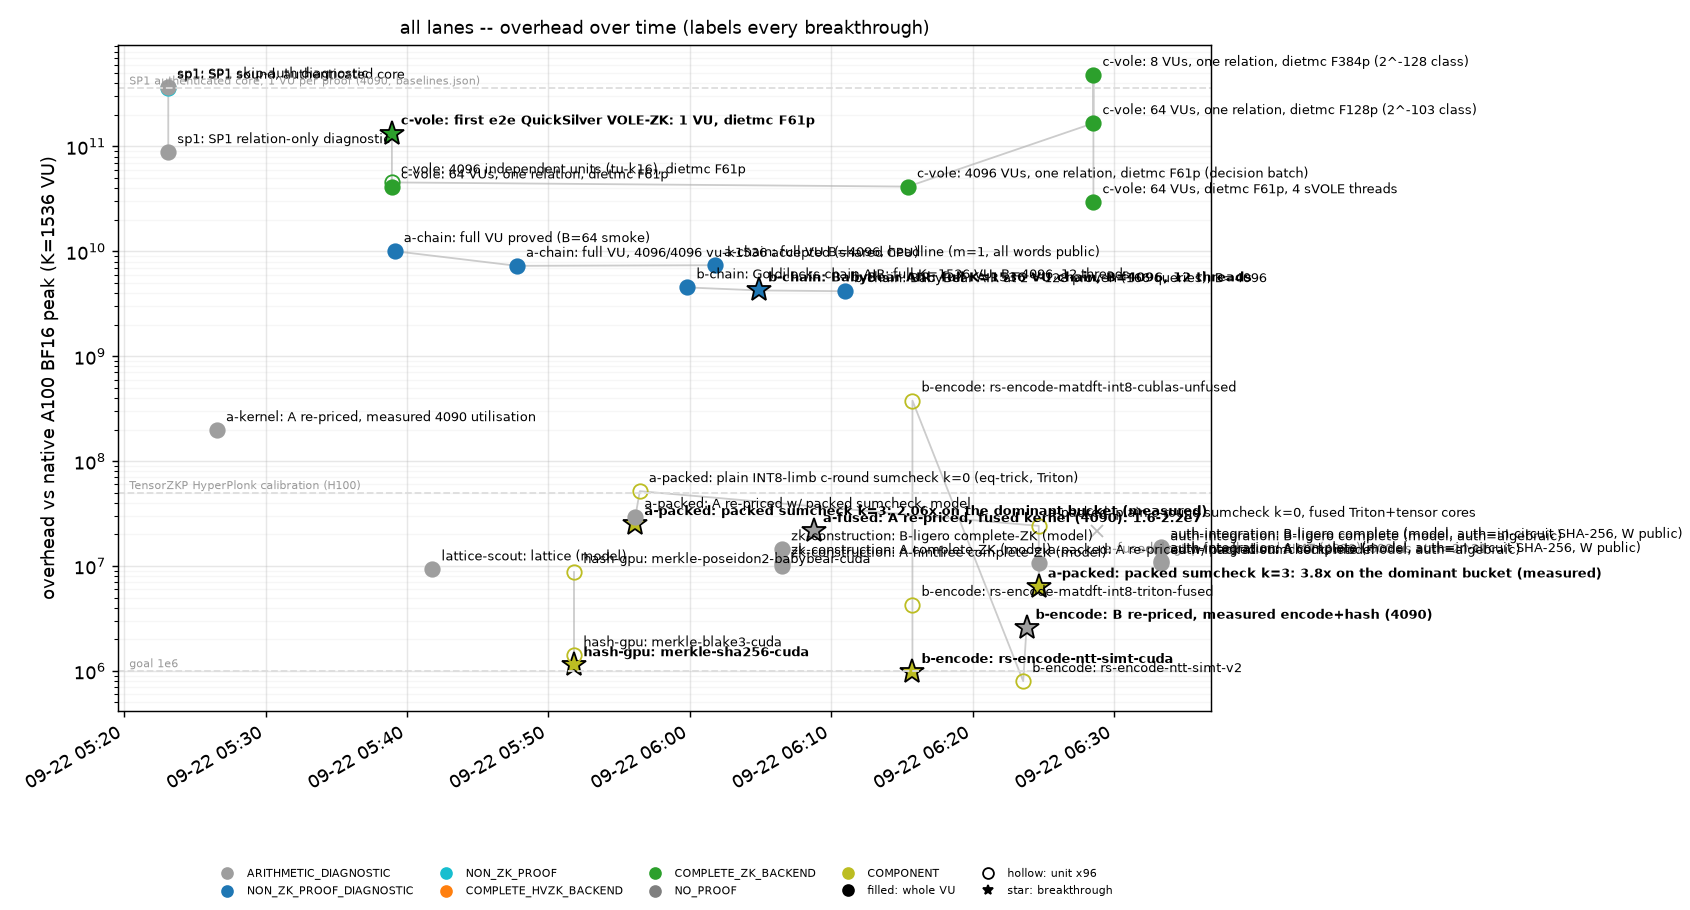
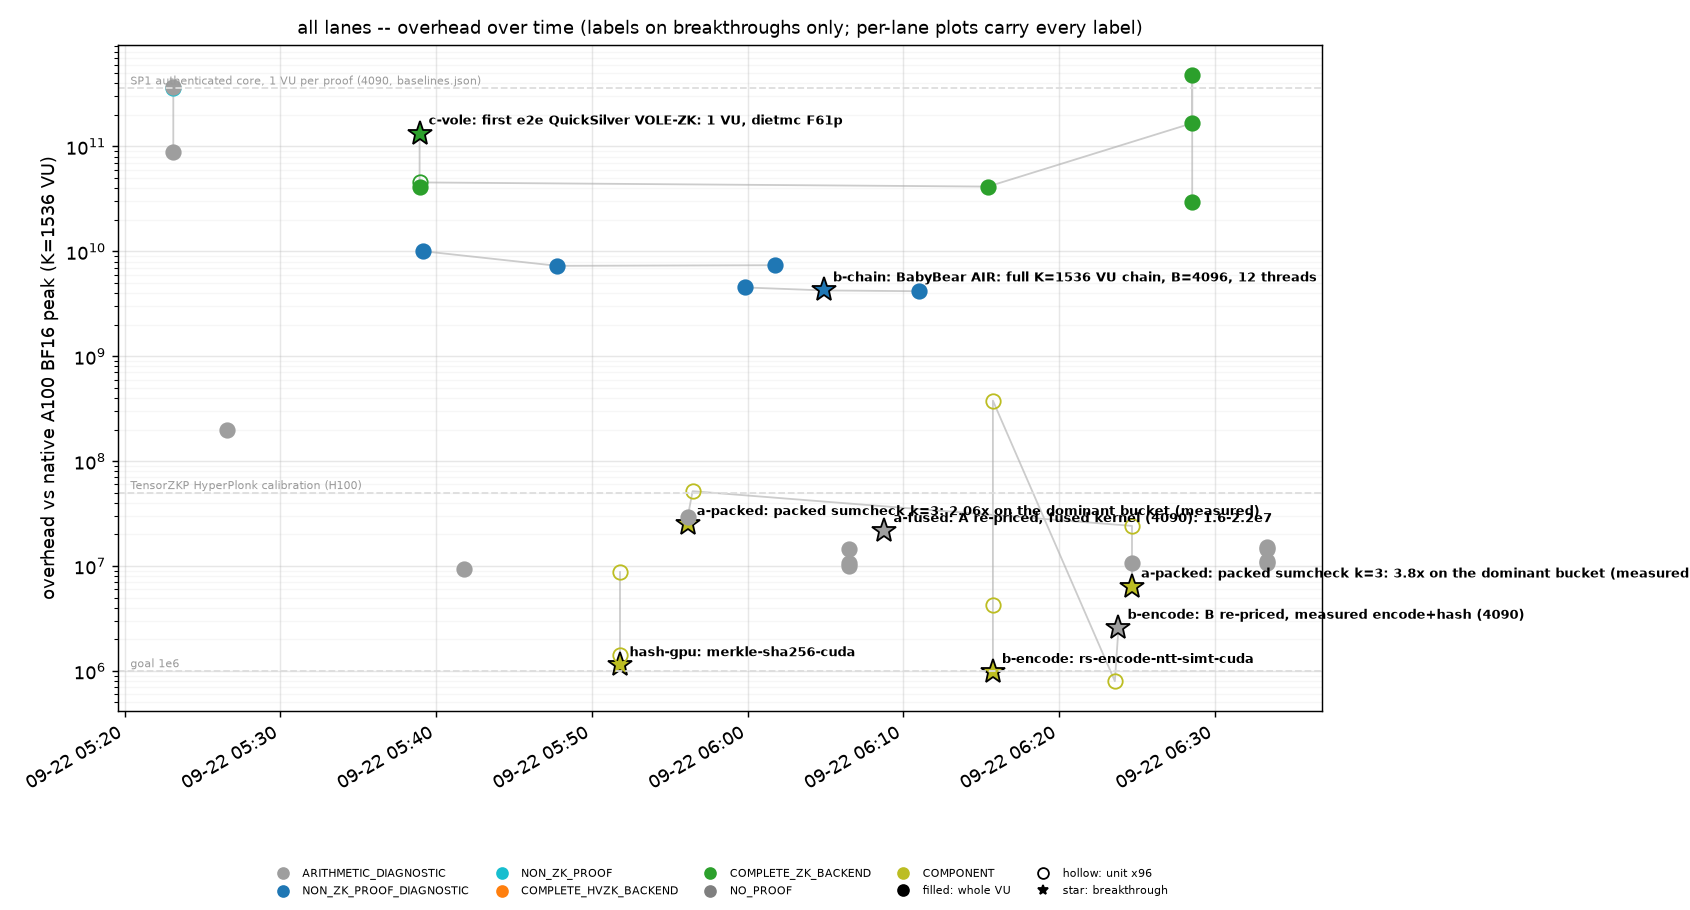
bench.plots: frontier plot (running best whole-VU overhead per track, proved vs re-priced, staggered labels); overview labels breakthroughs only

diff --git a/backends/numerical/python/verity_numerical/bench/plots.py b/backends/numerical/python/verity_numerical/bench/plots.py
@@ -25,7 +25,7 @@ import matplotlib.pyplot as plt
 
 from verity_numerical.bench import ledger
 
-__all__ = ["OUT", "REFERENCES", "main", "plot_lane", "plot_overview"]
+__all__ = ["OUT", "REFERENCES", "main", "plot_frontier", "plot_lane", "plot_overview"]
 
 OUT = ledger.DIR.parent / "plots"
 REFERENCES = {"goal 1e6": 1e6, "SP1 authenticated core, 1 VU per proof (4090, baselines.json)": 3.6e11, "TensorZKP HyperPlonk calibration (H100)": 5.0e7}
@@ -99,11 +99,69 @@ def plot_lane(lane: str, entries: list[dict[str, Any]], out: Path) -> Path:
 def plot_overview(lanes: dict[str, list[dict[str, Any]]], out: Path) -> Path:
     fig, ax = plt.subplots(figsize=(13, 7))
     for lane, entries in lanes.items():
-        _draw(ax, entries, annotate=True, prefix=f"{lane}: ")
-    _finish(ax, "all lanes -- overhead over time (labels every breakthrough)")
+        _draw(ax, [e for e in entries if e["overhead"] is not None], annotate=False, prefix=f"{lane}: ")
+        for e in entries:
+            if e["breakthrough"] and e["overhead"] is not None:
+                ax.annotate(f"{lane}: {e['label']}", (_ts(e), e["overhead"]), textcoords="offset points",
+                            xytext=(5, 5), fontsize=7, fontweight="bold")
+    _finish(ax, "all lanes -- overhead over time (labels on breakthroughs only; per-lane plots carry every label)")
     fig.autofmt_xdate()
     fig.tight_layout()
     path = out / "overhead_all.png"
+    fig.savefig(path, dpi=130)
+    plt.close(fig)
+    return path
+
+
+TRACK_COLOURS = {"A": "#1f77b4", "B": "#d62728", "C": "#2ca02c", "shared": "#7f7f7f", "sp1": "#7f7f7f", "0": "#7f7f7f"}
+MEASURED_CLASSES = {"NON_ZK_PROOF_DIAGNOSTIC", "NON_ZK_PROOF", "COMPLETE_HVZK_BACKEND", "COMPLETE_ZK_BACKEND"}
+
+
+def plot_frontier(lanes: dict[str, list[dict[str, Any]]], out: Path) -> Path:
+    """Per track, the running best whole-VU overhead over time: solid = an actual proof was produced and verified
+    (``NON_ZK_PROOF_DIAGNOSTIC`` and stronger), dashed = a re-pricing with at least one modelled bucket
+    (``ARITHMETIC_DIAGNOSTIC``).  Only entries that set a new best for their track are labelled (staggered)."""
+    fig, ax = plt.subplots(figsize=(13, 7))
+    by_track: dict[str, list[dict[str, Any]]] = {}
+    for lane, entries in lanes.items():
+        for e in entries:
+            if e["scope"] == "vu" and e["overhead"] is not None:
+                by_track.setdefault(e["track"], []).append({**e, "_lane": lane})
+    for track, entries in sorted(by_track.items()):
+        colour = TRACK_COLOURS.get(track, "black")
+        for measured, style in ((True, "-"), (False, "--")):
+            sel = sorted((e for e in entries if (e["proof_class"] in MEASURED_CLASSES) == measured), key=_ts)
+            if not sel:
+                continue
+            best = float("inf")
+            xs, ys, firsts = [], [], []
+            for e in sel:
+                if e["overhead"] < best:
+                    best = e["overhead"]
+                    firsts.append(e)
+                xs.append(_ts(e))
+                ys.append(best)
+            ax.step(xs, ys, where="post", color=colour, linestyle=style, linewidth=2 if measured else 1.2,
+                    label=f"track {track} -- {'proved and verified' if measured else 're-priced, partly modelled'}")
+            for i, e in enumerate(firsts):
+                ax.plot(_ts(e), e["overhead"], marker="*" if e["breakthrough"] else "o", color=colour, linestyle="none",
+                        markersize=12 if e["breakthrough"] else 6, markeredgecolor="black",
+                        markerfacecolor=colour if measured else "white")
+                dy = (12 + 11 * (i % 3)) * (1 if i % 2 == 0 else -1)
+                ax.annotate(f"{e['_lane']}: {e['label']}"[:70], (_ts(e), e["overhead"]), textcoords="offset points",
+                            xytext=(6, dy), fontsize=6.5, color=colour, arrowprops={"arrowstyle": "-", "color": "#cccccc", "lw": 0.6})
+    for name, y in REFERENCES.items():
+        ax.axhline(y, color="#dddddd", linestyle="--", linewidth=1)
+        ax.annotate(name, (0.01, y), fontsize=6, color="#999999", xycoords=("axes fraction", "data"), xytext=(0, 2), textcoords="offset points")
+    ax.set_yscale("log")
+    ax.set_ylabel("best whole-VU overhead so far (vs native A100 BF16 peak, K=1536)")
+    ax.set_title("frontier per track -- running best K=1536 VU overhead (labels where the best improves)", fontsize=10)
+    ax.xaxis.set_major_formatter(mdates.DateFormatter("%m-%d %H:%M", tz=_dt.UTC))
+    ax.grid(True, which="major", alpha=0.3)
+    ax.legend(fontsize=7, loc="upper center", bbox_to_anchor=(0.5, -0.14), ncol=3, frameon=False)
+    fig.autofmt_xdate()
+    fig.tight_layout()
+    path = out / "frontier.png"
     fig.savefig(path, dpi=130)
     plt.close(fig)
     return path
@@ -119,6 +177,7 @@ def main(argv: list[str] | None = None) -> int:
     written = [plot_lane(lane, entries, ns.out) for lane, entries in lanes.items() if entries]
     if lanes:
         written.append(plot_overview(lanes, ns.out))
+        written.append(plot_frontier(lanes, ns.out))
     for p in written:
         print(p)
     return 0
